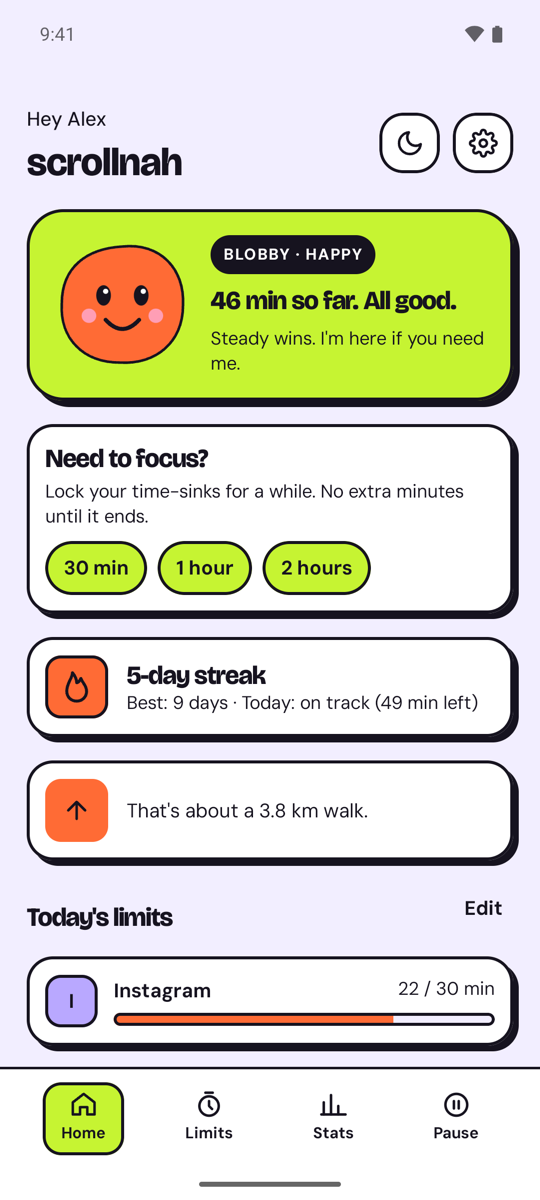
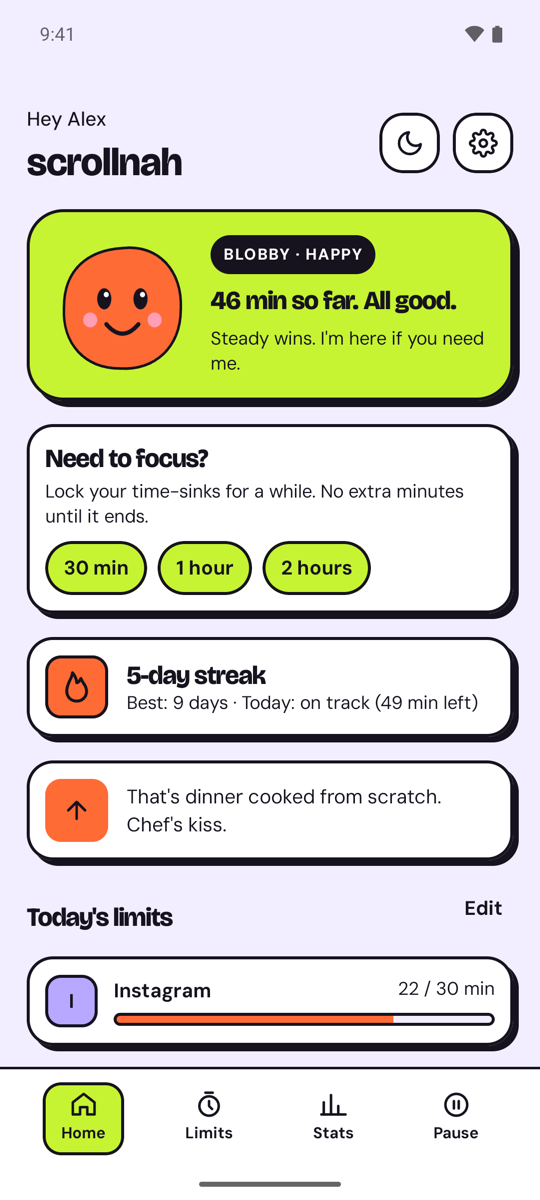
Animated mascot widget and funnier Home comparisons
- New "Mascot (animated)" 2x2 widget: no background and no text, just Blobby
  or Bloomy in today's mood standing on the wallpaper. Blobby bobs, Bloomy's
  stems sway, both blink. Four pre-drawn frames in a ViewFlipper that the
  launcher flips every 260 ms (a still frame when animations are off).
  The medium and small card widgets are unchanged.
- Home comparison card: playful everyday lines (a cup of chai, a whole pizza,
  dinner from scratch, a board game night...) instead of exact distances.
- README widget and Home screenshots updated; docs updated.

Changed region(s): [[0.237, 0.6475, 0.8, 0.7092], [0.0889, 0.185, 0.3259, 0.3083], [0.2963, 0.2158, 0.3556, 0.2775]]

diff --git a/app/src/main/java/com/unscroll/app/widget/MascotWidgets.kt b/app/src/main/java/com/unscroll/app/widget/MascotWidgets.kt
@@ -1,23 +1,28 @@
 package com.unscroll.app.widget
 
 import android.content.Context
+import android.widget.RemoteViews
 import androidx.compose.runtime.Composable
 import androidx.compose.runtime.collectAsState
 import androidx.compose.runtime.getValue
 import androidx.compose.runtime.remember
 import androidx.compose.ui.graphics.Color
+import androidx.compose.ui.unit.coerceIn
 import androidx.compose.ui.unit.dp
 import androidx.compose.ui.unit.sp
 import androidx.glance.GlanceId
 import androidx.glance.GlanceModifier
 import androidx.glance.Image
 import androidx.glance.ImageProvider
+import androidx.glance.LocalSize
+import androidx.glance.action.actionStartActivity
 import androidx.glance.action.clickable
+import androidx.glance.appwidget.AndroidRemoteViews
 import androidx.glance.appwidget.GlanceAppWidget
 import androidx.glance.appwidget.GlanceAppWidgetManager
 import androidx.glance.appwidget.GlanceAppWidgetReceiver
 import androidx.glance.appwidget.LinearProgressIndicator
-import androidx.glance.action.actionStartActivity
+import androidx.glance.appwidget.SizeMode
 import androidx.glance.appwidget.provideContent
 import androidx.glance.appwidget.updateAll
 import androidx.glance.background
@@ -74,6 +79,28 @@ class SmallMascotWidget : GlanceAppWidget() {
 }
 
 /**
+ * Animated mascot widget (2x2): no background and no text, just the mascot in today's
+ * mood standing on the wallpaper. It bobs (Blobby) or sways (Bloomy) and blinks.
+ */
+class MascotOnlyWidget : GlanceAppWidget() {
+    // Exact = we get the real size, so the mascot can be as big as the space allows.
+    override val sizeMode = SizeMode.Exact
+
+    override suspend fun provideGlance(context: Context, id: GlanceId) {
+        MascotWidgets.reload(context)
+        val motion = MascotFrames.animationsOn(context)
+        provideContent {
+            val state by MascotWidgets.latest.collectAsState()
+            val current = state ?: return@provideContent
+            val frames = remember(current.theme, current.mood, current.flowers, motion) {
+                MascotFrames.remoteViews(context, current, motion)
+            }
+            MascotOnlyContent(frames)
+        }
+    }
+}
+
+/**
  * Glance keeps a widget's content running for a while after it's drawn, and an update
  * during that time only redraws it. So the content watches [MascotWidgets.latest]
  * instead of keeping its own copy: new numbers or a new theme show up right away.
@@ -100,6 +127,10 @@ class SmallMascotWidgetReceiver : GlanceAppWidgetReceiver() {
     override val glanceAppWidget: GlanceAppWidget = SmallMascotWidget()
 }
 
+class MascotOnlyWidgetReceiver : GlanceAppWidgetReceiver() {
+    override val glanceAppWidget: GlanceAppWidget = MascotOnlyWidget()
+}
+
 object MascotWidgets {
     /** The newest widget data. Running widgets redraw by themselves when it changes. */
     val latest = MutableStateFlow<WidgetState?>(null)
@@ -113,8 +144,7 @@ object MascotWidgets {
     suspend fun refresh(context: Context) {
         if (!anyPlaced(context)) return
         reload(context)
-        MediumMascotWidget().updateAll(context)
-        SmallMascotWidget().updateAll(context)
+        updateAll(context)
     }
 
     /** Redraws only if the mood, numbers, theme or day changed since last time. */
@@ -123,14 +153,20 @@ object MascotWidgets {
         val state = WidgetData.load(context)
         if (state == latest.value) return
         latest.value = state
+        updateAll(context)
+    }
+
+    private suspend fun updateAll(context: Context) {
         MediumMascotWidget().updateAll(context)
         SmallMascotWidget().updateAll(context)
+        MascotOnlyWidget().updateAll(context)
     }
 
     private suspend fun anyPlaced(context: Context): Boolean {
         val manager = GlanceAppWidgetManager(context)
         return manager.getGlanceIds(MediumMascotWidget::class.java).isNotEmpty() ||
-            manager.getGlanceIds(SmallMascotWidget::class.java).isNotEmpty()
+            manager.getGlanceIds(SmallMascotWidget::class.java).isNotEmpty() ||
+            manager.getGlanceIds(MascotOnlyWidget::class.java).isNotEmpty()
     }
 }
 
@@ -213,6 +249,19 @@ private fun SmallContent(state: WidgetState, mascot: ImageProvider) {
             maxLines = 1
         )
         SmallText("on ${state.topApp} today", center = true)
+    }
+}
+
+/** The animated widget: just the moving mascot in today's mood, as big as the space allows. */
+@Composable
+private fun MascotOnlyContent(frames: RemoteViews) {
+    val space = LocalSize.current
+    val mascotSize = minOf(space.width, space.height).coerceIn(56.dp, 220.dp)
+    Box(
+        modifier = GlanceModifier.fillMaxSize().clickable(openApp),
+        contentAlignment = Alignment.Center
+    ) {
+        AndroidRemoteViews(frames, GlanceModifier.size(mascotSize))
     }
 }
 

diff --git a/app/src/main/java/com/unscroll/app/ui/components/FunStat.kt b/app/src/main/java/com/unscroll/app/ui/components/FunStat.kt
@@ -4,52 +4,56 @@ import java.time.LocalDate
 import kotlin.math.abs
 
 /**
- * Turns today's scrolling minutes into an everyday comparison, like "about as long
- * as cooking dinner". Plain and real-world, never a telling-off.
- * The wording changes once a day, so the card doesn't feel repetitive.
+ * Turns today's scrolling minutes into a funny, real-life comparison, like
+ * "That's dinner cooked from scratch. Chef's kiss." Playful, never a telling-off.
+ * The line changes once a day, so the card stays fresh.
  */
 object FunStat {
 
     fun line(minutes: Int, mascotName: String): String {
         val options = when {
             minutes <= 0 -> listOf(
-                "No scrolling yet today. $mascotName is doing a little dance.",
-                "Zero minutes so far. The whole day is still yours."
+                "Zero minutes. Your thumb is on holiday.",
+                "Nothing yet. $mascotName is doing a tiny victory dance.",
+                "Clean slate. The whole day is still yours."
             )
             minutes < 10 -> listOf(
-                "That's about as long as making a cup of tea.",
-                "That's about as long as a quick call with a friend."
+                "That's a cup of chai, brewed and sipped.",
+                "Enough time to text your mum back. Properly.",
+                "That's one song on repeat. Twice.",
+                "Long enough to make the world's laziest sandwich."
             )
             minutes < 20 -> listOf(
-                "That's about a walk around the block.",
-                "That's about as long as a shower and getting ready."
+                "That's a lap around the block, headphones in.",
+                "That's a shower with time for a full concert.",
+                "You could've watered every plant you own.",
+                "That's a nap your future self would thank you for."
             )
             minutes < 30 -> listOf(
-                "That's about a power nap.",
-                "That's about a short workout."
+                "That's a power nap, and then some.",
+                "That's a whole pizza, from order to door.",
+                "Enough time to finally fold that laundry pile.",
+                "That's a short workout. Sweaty, but proud."
             )
             minutes < 60 -> listOf(
-                "That's about as long as cooking dinner.",
-                "That's about a ${walkKm(minutes)} km walk.",
-                "That's about a chapter of a book."
+                "That's dinner cooked from scratch. Chef's kiss.",
+                "That's a whole sunset, start to finish.",
+                "That's a few chapters of the book on your nightstand.",
+                "That's a walk to the park, a go on the swings, and back."
             )
             minutes < 120 -> listOf(
-                "That's about a ${walkKm(minutes)} km walk.",
-                "That's about a full workout and a stretch.",
-                "That's about a long lunch with friends."
+                "That's a full gym session, protein shake included.",
+                "That's a long lunch with friends. Dessert too.",
+                "Enough time to learn a new recipe and burn it once.",
+                "That's a whole board game night. Someone would've flipped the table."
             )
             else -> listOf(
-                "That's longer than most movies.",
-                "That's about a ${walkKm(minutes)} km walk.",
-                "That's about half a working day."
+                "That's longer than most movies. Popcorn not included.",
+                "That's a road trip to the next town and back.",
+                "That's enough time to bake bread. From flour.",
+                "That's half a working day. Your thumb deserves a raise."
             )
         }
         return options[abs(LocalDate.now().toEpochDay().toInt()) % options.size]
-    }
-
-    /** Walking at about 5 km an hour: 46 min -> "3.8", 120 min -> "10". */
-    private fun walkKm(minutes: Int): String {
-        val km = minutes / 12f
-        return if (km >= 10f || km % 1f == 0f) km.toInt().toString() else "%.1f".format(km)
     }
 }

diff --git a/app/src/main/java/com/unscroll/app/widget/MascotFrames.kt b/app/src/main/java/com/unscroll/app/widget/MascotFrames.kt
@@ -1,0 +1,49 @@
+package com.unscroll.app.widget
+
+import android.content.Context
+import android.provider.Settings
+import android.widget.RemoteViews
+import com.unscroll.app.R
+import com.unscroll.app.ui.mascot.MascotBitmap
+
+/**
+ * The moving mascot in the "Mascot" widget. Widgets can't run real animations, so we
+ * draw a few pictures and the home screen flips through them by itself (a ViewFlipper,
+ * res/layout/widget_mascot_frames.xml): a gentle bob or sway, with one blink per loop.
+ * The home screen does the flipping, so it costs ScrollNah no battery.
+ */
+internal object MascotFrames {
+
+    private const val FRAME_PX = 260
+
+    // The 4 drawings: bob up, middle, bob down, and middle with eyes shut.
+    private const val UP = 0
+    private const val MID = 1
+    private const val DOWN = 2
+    private const val BLINK = 3
+
+    /** Which drawing each of the 12 slots shows (one slot every 260 ms, about 3 s per loop). */
+    private val SEQUENCE = intArrayOf(UP, MID, DOWN, MID, UP, MID, DOWN, MID, UP, MID, DOWN, BLINK)
+
+    private val SLOTS = intArrayOf(
+        R.id.frame_0, R.id.frame_1, R.id.frame_2, R.id.frame_3, R.id.frame_4, R.id.frame_5,
+        R.id.frame_6, R.id.frame_7, R.id.frame_8, R.id.frame_9, R.id.frame_10, R.id.frame_11
+    )
+
+    /** False when "Remove animations" is on in the phone's settings. */
+    fun animationsOn(context: Context): Boolean =
+        Settings.Global.getFloat(context.contentResolver, Settings.Global.ANIMATOR_DURATION_SCALE, 1f) > 0f
+
+    fun remoteViews(context: Context, state: WidgetState, motion: Boolean): RemoteViews {
+        val drawings = listOf(-1f to false, 0f to false, 1f to false, 0f to true).map { (bob, blink) ->
+            MascotBitmap.frame(state.theme, state.mood, state.flowers, FRAME_PX, bob, blink)
+        }
+        val views = RemoteViews(context.packageName, R.layout.widget_mascot_frames)
+        SLOTS.forEachIndexed { i, id ->
+            // The same picture objects are reused, so Android only sends 4 pictures, not 12.
+            // With animations off, every slot shows the same still picture.
+            views.setImageViewBitmap(id, drawings[if (motion) SEQUENCE[i] else MID])
+        }
+        return views
+    }
+}

diff --git a/app/src/main/java/com/unscroll/app/ui/mascot/Mascot.kt b/app/src/main/java/com/unscroll/app/ui/mascot/Mascot.kt
@@ -30,6 +30,7 @@ import androidx.compose.ui.graphics.drawscope.DrawScope
 import androidx.compose.ui.graphics.drawscope.Stroke
 import androidx.compose.ui.graphics.drawscope.inset
 import androidx.compose.ui.graphics.drawscope.translate
+import androidx.compose.ui.graphics.drawscope.withTransform
 import androidx.compose.ui.graphics.graphicsLayer
 import androidx.compose.ui.platform.LocalContext
 import androidx.compose.ui.unit.Density
@@ -193,6 +194,33 @@ object MascotBitmap {
                 }
             } else {
                 drawMascot(theme, mood, flowers, onOrange)
+            }
+        }
+        return image.asAndroidBitmap()
+    }
+
+    /**
+     * One drawing of the mascot moving, for the animated widget.
+     * [bob] -1..1: Blobby bobs up and down and squishes, Bloomy's stems sway.
+     * A small margin keeps the mascot inside the picture while it moves.
+     */
+    fun frame(theme: MascotTheme, mood: MoodLevel, flowers: Int, sizePx: Int, bob: Float, blink: Boolean): Bitmap {
+        val image = ImageBitmap(sizePx, sizePx)
+        val area = Size(sizePx.toFloat(), sizePx.toFloat())
+        val pose = MascotPose(eyeOpen = if (blink) 0.1f else 1f, sway = bob, twinkle = 0.85f + 0.15f * bob)
+        CanvasDrawScope().draw(Density(1f), LayoutDirection.Ltr, Canvas(image), area) {
+            inset(size.minDimension * 0.05f) {
+                if (theme == MascotTheme.BLOBBY) {
+                    // Same bob and squish as on screen (see Mascot), squishing from the bottom.
+                    withTransform({
+                        translate(top = bob * size.height * 0.03f)
+                        scale(1f - bob * 0.025f, 1f + bob * 0.025f, pivot = Offset(size.width / 2f, size.height))
+                    }) {
+                        drawMascot(theme, mood, flowers, pose = pose)
+                    }
+                } else {
+                    drawMascot(theme, mood, flowers, pose = pose)
+                }
             }
         }
         return image.asAndroidBitmap()

diff --git a/app/src/test/java/com/unscroll/app/data/FunStatTest.kt b/app/src/test/java/com/unscroll/app/data/FunStatTest.kt
@@ -7,18 +7,18 @@ import org.junit.Test
 class FunStatTest {
 
     @Test
-    fun everyAmountGetsAPlainComparison() {
+    fun everyAmountGetsAPlayfulComparison() {
         for (minutes in listOf(0, 5, 15, 25, 46, 90, 240)) {
             val line = FunStat.line(minutes, "Blobby")
             assertTrue("$minutes min: $line", line.isNotBlank())
-            assertTrue("$minutes min: $line", !line.contains("sitcom") && !line.contains("song"))
+            // No exact distances or TV-show maths: keep it light and everyday.
+            assertTrue("$minutes min: $line", "km" !in line && "sitcom" !in line)
         }
     }
 
     @Test
-    fun walkingDistanceIsReadable() {
-        // 46 min at 5 km/h is about 3.8 km; check whichever line mentions a walk is formatted well.
-        val line = FunStat.line(46, "Blobby")
-        if ("km" in line) assertTrue(line, line.contains("3.8 km"))
+    fun zeroMinutesMayMentionTheMascot() {
+        val line = FunStat.line(0, "Bloomy")
+        assertTrue(line, line.isNotBlank() && "Blobby" !in line)
     }
 }

diff --git a/CLAUDE_UPDATES.md b/CLAUDE_UPDATES.md
@@ -380,11 +380,28 @@ debug gallery (below).
 - The emulator was left in demo mode with both widgets on its home screen (turn demo off:
   `adb shell run-as com.unscroll.app rm files/demo_mode`, then clear app data).
 
+## Animated mascot widget (2026-10-26, developer request)
+- New 2x2 widget "Mascot (animated)" (`MascotOnlyWidget`, receiver `MascotOnlyWidgetReceiver`): no background
+  and no text (developer: "just plant or Blobby with moods"), the mascot in today's mood sized to the space
+  (`SizeMode.Exact`). A minutes-left speech bubble was tried first and removed.
+- Animation: `widget/MascotFrames.kt` draws 4 frames with `MascotBitmap.frame()` (bob up / middle / bob down /
+  blink; Blobby bobs+squishes, Bloomy's stems sway) and puts them into 12 slots of a `ViewFlipper`
+  (`layout/widget_mascot_frames.xml`, autoStart, 260 ms), embedded with Glance `AndroidRemoteViews`.
+  The launcher does the flipping (no battery cost for ScrollNah). The same Bitmap objects are reused so only
+  4 pictures are sent (~1 MB). "Remove animations" on = a still frame.
+- The medium and small card widgets are unchanged (developer: keep them as they were). A "No background"
+  style for them was tried and removed.
+- Verified on the emulator's Pixel launcher: burst screenshots show the frames changing (Bloomy sways
+  left/right, both blink), with Blobby and Bloomy. NOT verified: other launchers. Some (vivo/iQOO,
+  Samsung, Xiaomi versions) may pause ViewFlippers or only show the first frame: check on the iQOO.
+
 ## Home "fun stat" wording (2026-10-26, developer feedback)
-- The sitcom-episode / songs lines felt too specific. `ui/components/FunStat.kt` now gives plain,
-  real-world comparisons by amount: a cup of tea, a walk around the block, a power nap, cooking dinner,
-  a chapter of a book, an X km walk (5 km/h), a long lunch, longer than most movies, half a working day.
-  Two or three options per range, picked once a day. `FunStatTest` checks every range has a line.
+- The sitcom-episode / songs lines felt too specific, and then the plain version ("about a 3.8 km walk")
+  felt flat. `ui/components/FunStat.kt` now has funny everyday comparisons, 4 per time range (3 for zero),
+  picked once a day: "That's a cup of chai, brewed and sipped.", "You could've watered every plant you
+  own.", "That's a whole pizza, from order to door.", "That's dinner cooked from scratch. Chef's kiss.",
+  "That's a whole board game night. Someone would've flipped the table.", "That's enough time to bake
+  bread. From flour." No exact distances or TV-show maths. `FunStatTest` checks every range.
 - The streak and fun-stat cards on Home are now always full width (they shrank to fit short text).
 
 ## README screenshots (2026-10-26)

diff --git a/README.md b/README.md
@@ -11,7 +11,8 @@ A playful Android app that helps you scroll less, with a mascot that reacts to h
 - **Break reminders** after a long stretch on one app, as a notification, a mascot bubble, or both.
 - **Bloomy's garden**: four flowers fill a pot, and finished pots are kept in your garden.
 - **Focus mode** (lock your apps for 30 min to 2 hours) and a **bedtime** schedule.
-- **Streaks**, a weekly report, two home-screen widgets, and light and dark themes.
+- **Home-screen widgets**: a card with today's numbers, a small one, and an animated mascot that bobs, sways and blinks right on your wallpaper.
+- **Streaks**, a weekly report, and light and dark themes.
 - **Private by design**: no account, and everything stays on your phone.
 
 ## Screenshots
@@ -23,8 +24,8 @@ A playful Android app that helps you scroll less, with a mascot that reacts to h
 | <img src="screenshots/limits.png" width="250" alt="Limits"> | <img src="screenshots/break-reminders.png" width="250" alt="Break reminder settings"> | <img src="screenshots/break-reminder.png" width="250" alt="Break reminder notification and bubble over Chrome"> |
 | **Bloomy on Home** | **Pick your mascot** | **Bloomy's garden** |
 | <img src="screenshots/home-bloomy.png" width="250" alt="Home with Bloomy"> | <img src="screenshots/mascot-picker.png" width="250" alt="Mascot picker"> | <img src="screenshots/garden.png" width="250" alt="Garden"> |
-| **Home-screen widget** | | |
-| <img src="screenshots/widget.png" width="250" alt="Home-screen widget"> | | |
+| **Home-screen widgets** | | |
+| <img src="screenshots/widget.png" width="250" alt="Home-screen widgets"> | | |
 
 <sub>Screenshots use the app's sample data (debug demo mode).</sub>
 

diff --git a/CLAUDE.md b/CLAUDE.md
@@ -101,6 +101,7 @@ Based on the share of today's total limit used (summed across enabled limited ap
 - Follows the chosen theme and shows the current mood art.
 - **Medium (4×2):** mascot, mood pill (e.g. "Thirsty"), title ("Bloomy needs a break"), the most-used limited app with a "26 / 30 min" bar, and streak text ("10-day streak, 1 flower" for Bloomy, "10-day streak" for Blobby).
 - **Small (2×2):** mascot + "4 min left" + "on Instagram today".
+- **Mascot (animated, 2×2):** no background and no text: just the mascot in today's mood, standing on the wallpaper, bobbing (Blobby) or swaying (Bloomy) and blinking. Widgets can't run real animations: 4 pre-drawn frames in a `ViewFlipper` (`widget_mascot_frames.xml`) that the launcher flips every 260 ms. With "Remove animations" on, it shows a still frame. (Added 2026-10-26 at the developer's request.)
 - Tapping opens ScrollNah.
 - Widgets don't refresh constantly on their own: the foreground service triggers a widget update whenever the mood level or numbers change (and at midnight).
 
